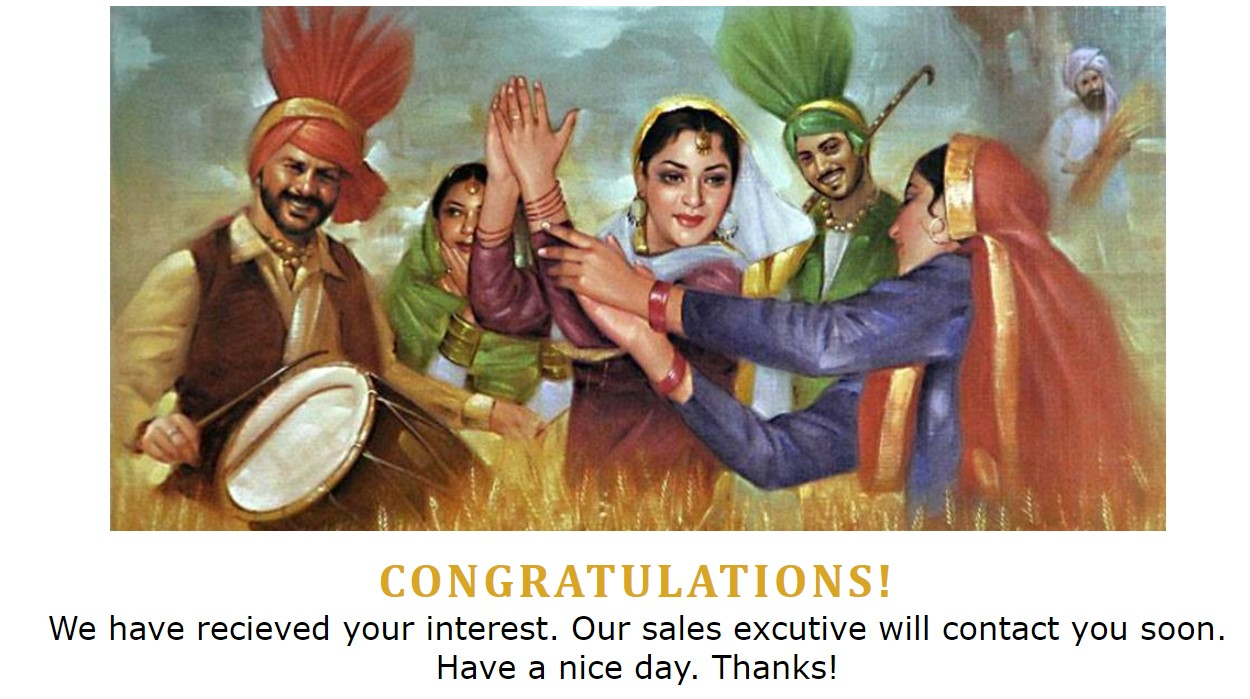
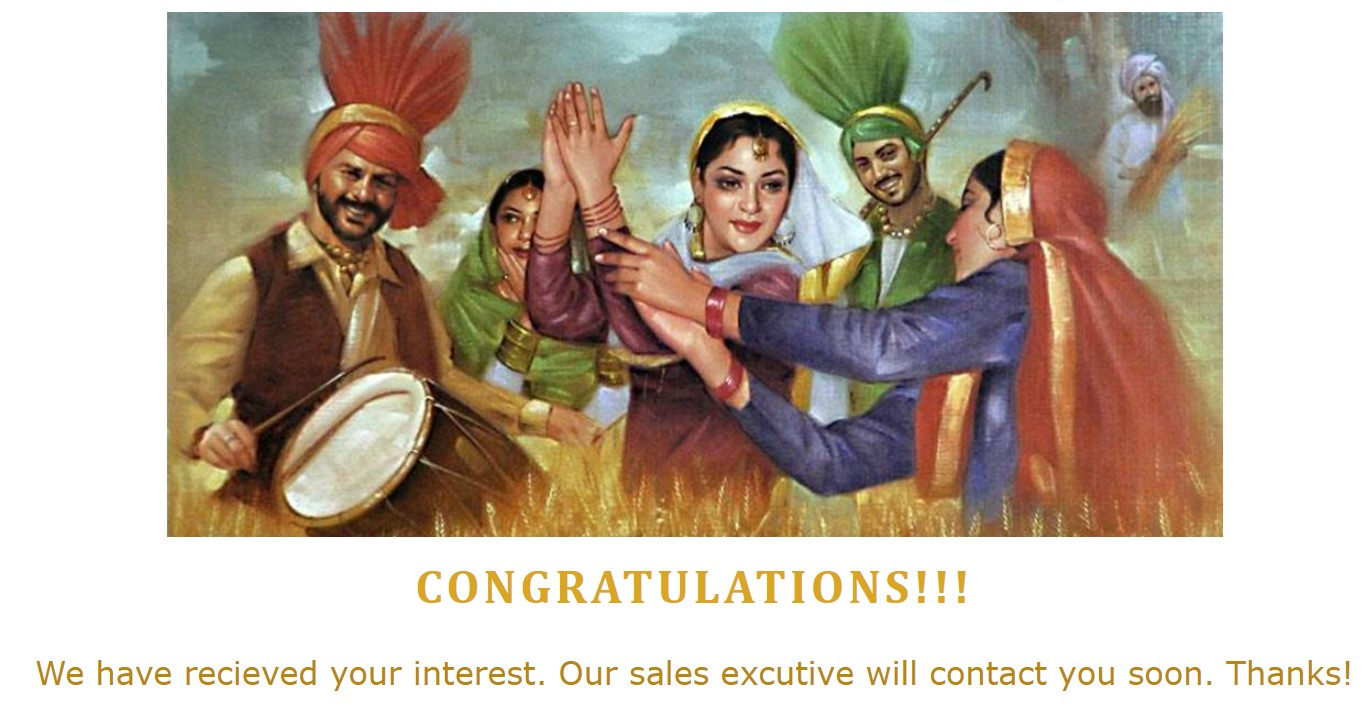
feat: Add media queries

diff --git a/assets/css/style.css b/assets/css/style.css
@@ -14,11 +14,17 @@ header {
 }
 
 /* headings and logo */
-h1,h2 {
+h1,
+h2 {
     font-family: Cambria, Cochin, Georgia, Times, 'Times New Roman', serif;
     text-transform: uppercase;
     letter-spacing: 4px;
     color: #DAA520;
+}
+
+p {
+    font-family: Verdana, Geneva, Tahoma, sans-serif;
+    color: darkgoldenrod;
 }
 
 #logo {
@@ -35,7 +41,8 @@ h1,h2 {
     letter-spacing: 4px;
 }
 
-#logo, #menu {
+#logo,
+#menu {
     line-height: 75px;
 }
 
@@ -93,7 +100,8 @@ h1,h2 {
     }
 }
 
-#cover-text, #cover-text h2 {
+#cover-text,
+#cover-text h2 {
     color: #ffffff;
 }
 
@@ -177,7 +185,7 @@ hr {
 
 footer {
     height: 80px;
-    background-color:antiquewhite;
+    background-color: antiquewhite;
 }
 
 .social-networks {
@@ -194,7 +202,7 @@ footer {
     width: 35px;
     padding-top: 15%;
     padding-left: 100px;
-   
+
 }
 
 /* Attractions */
@@ -207,10 +215,9 @@ footer {
     margin: 20px 0;
     text-align: center;
     font-size: 300%;
-} 
+}
 
 table {
-    column-count: 3;
     width: 100%;
     padding: 5px;
 }
@@ -220,7 +227,7 @@ table img {
     height: 350px;
 }
 
-tr td{
+tr td {
     padding: 5px 5px 0px 5px;
 }
 
@@ -316,7 +323,7 @@ tr td{
     height: 500px;
     overflow: hidden;
     position: center;
-    padding-top:50px;
+    padding-top: 50px;
 }
 
 #confirmation-image {
@@ -339,3 +346,111 @@ tr td{
     font-size: 200%;
 }
 
+/* Media queries */
+
+/* For large to medium screens sizes from 1200px wide and down */
+@media screen and (max-width: 1200px) {
+
+    header {
+        height: 80px;
+        background-color: antiquewhite;
+    }
+
+    #explore-city {
+        width: 65%;
+        height: 1200px;
+        margin: 0 auto;
+    }
+
+    #left-history,
+    #right-culture {
+        width: 100%;
+        float: left;
+        padding: 0;
+    }
+
+    hr {
+        display: none;
+    }
+}
+
+/* For medium screens sizes from 950px wide and down */
+@media screen and (max-width: 950px) {
+
+    #menu {
+        clear: left;
+        float: left;
+        margin-left: 30px;
+        margin-bottom: 20px;
+        line-height: 25px;
+    }
+
+    #cover-text {
+        left: 0px;
+    }
+
+    #explore-city {
+        width: 90%;
+        height: 1200px;
+        margin: 0 auto;
+    }
+
+    .left-history-heading,
+    .right-culture-heading {
+        width: inherit;
+    }
+
+    .left-history-heading h2,
+    .right-culture-heading h2 {
+        width: 100%;
+        text-align: center;
+    }
+
+    .left-history-heading p,
+    .right-culture-heading p {
+        text-align: center;
+        padding: 0 20px 0 20px;
+    }
+
+    #table {
+        column-count: 3;
+    }
+}
+
+/* For small screens sizes from 800px wide and down */
+@media screen and (max-width: 800px) {
+
+    header {
+        height: 100px;
+    }
+
+    #logo {
+        font-size: 200%;
+        padding-top: 10px;
+        margin-left: 70px;
+    }
+
+    #menu {
+        font-size: 100%;
+        letter-spacing: 2px;
+        padding-top: 10px;
+        margin-left: 80px;
+    }
+
+    #logo,
+    #menu {
+        line-height: 30px;
+    }
+
+    #table {
+        column-count: 2;
+    }
+
+    #social-media-icon {
+        height: 25px;
+        width: 25px;
+        padding-top: 15%;
+        padding-left: 25px;
+
+    }
+}

diff --git a/confirmation.html b/confirmation.html
@@ -31,9 +31,9 @@
 
     <section id="confirmation">
         <div id="message">
-            <h1>Congratulations!</h1>
-            <p> We have recieved your interest. Our sales excutive will contact you soon. </p> 
-            <p>Have a nice day. Thanks!</p>
+            <h1>Congratulations!!!</h1>
+            <br>
+            <p> We have recieved your interest. Our sales excutive will contact you soon. Thanks!</p> 
         </div>
     </section>
 
